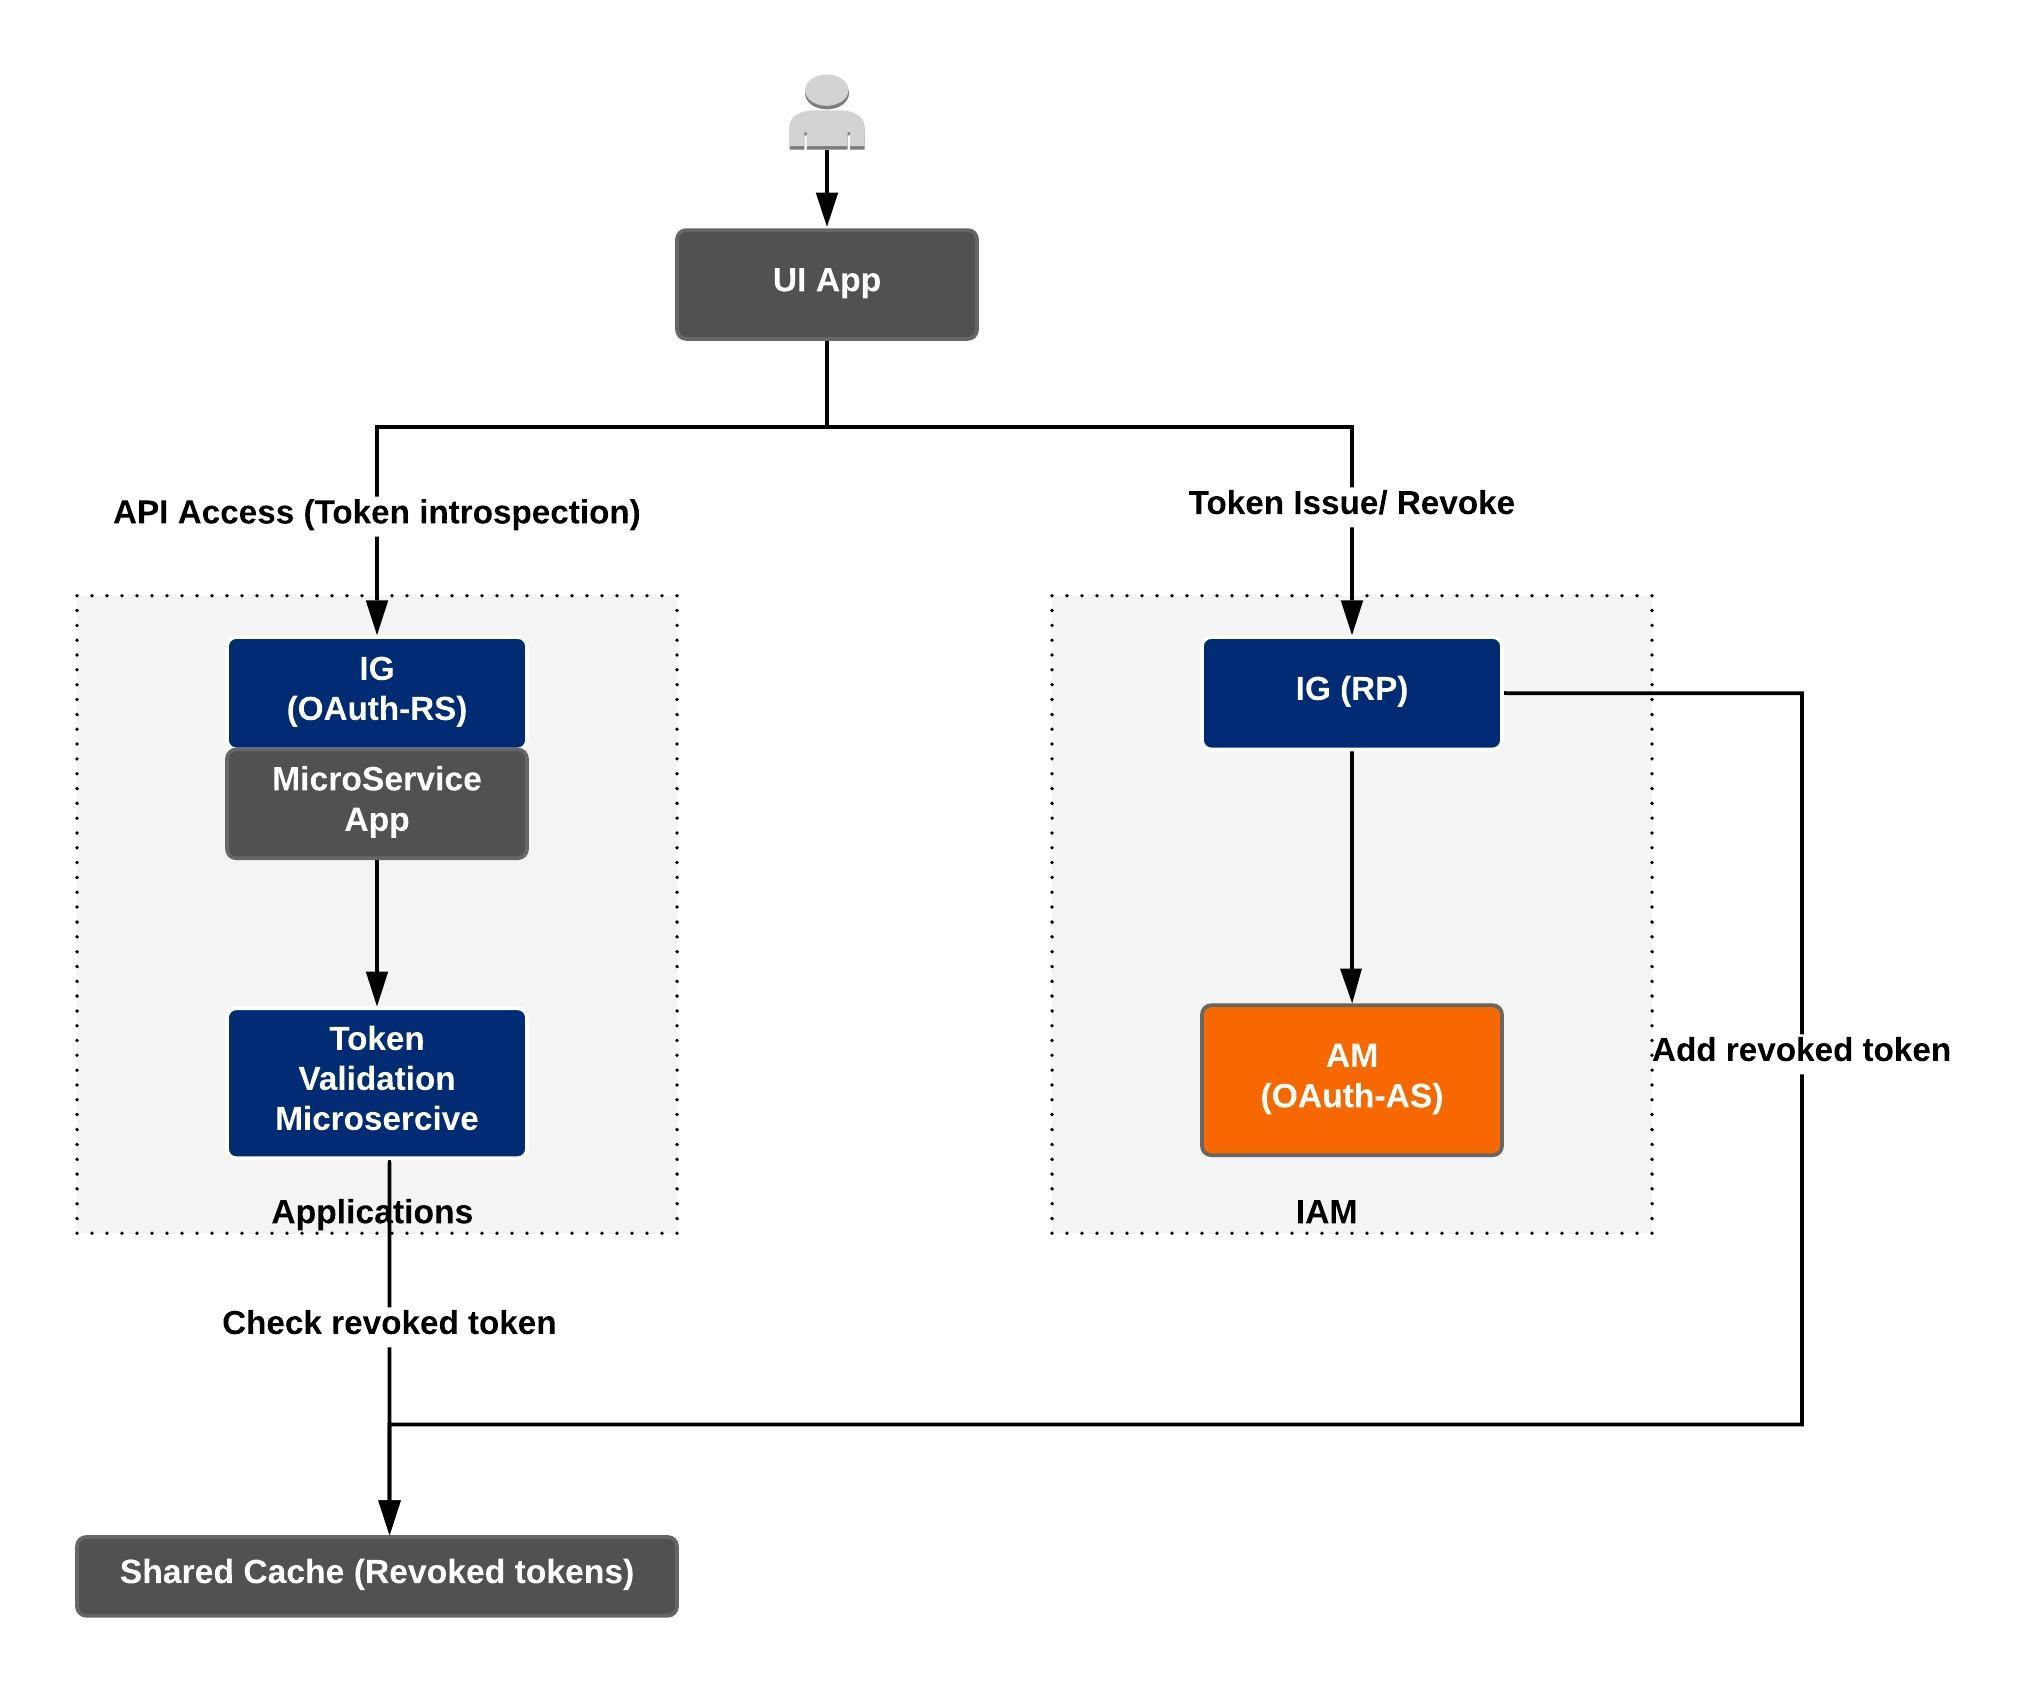
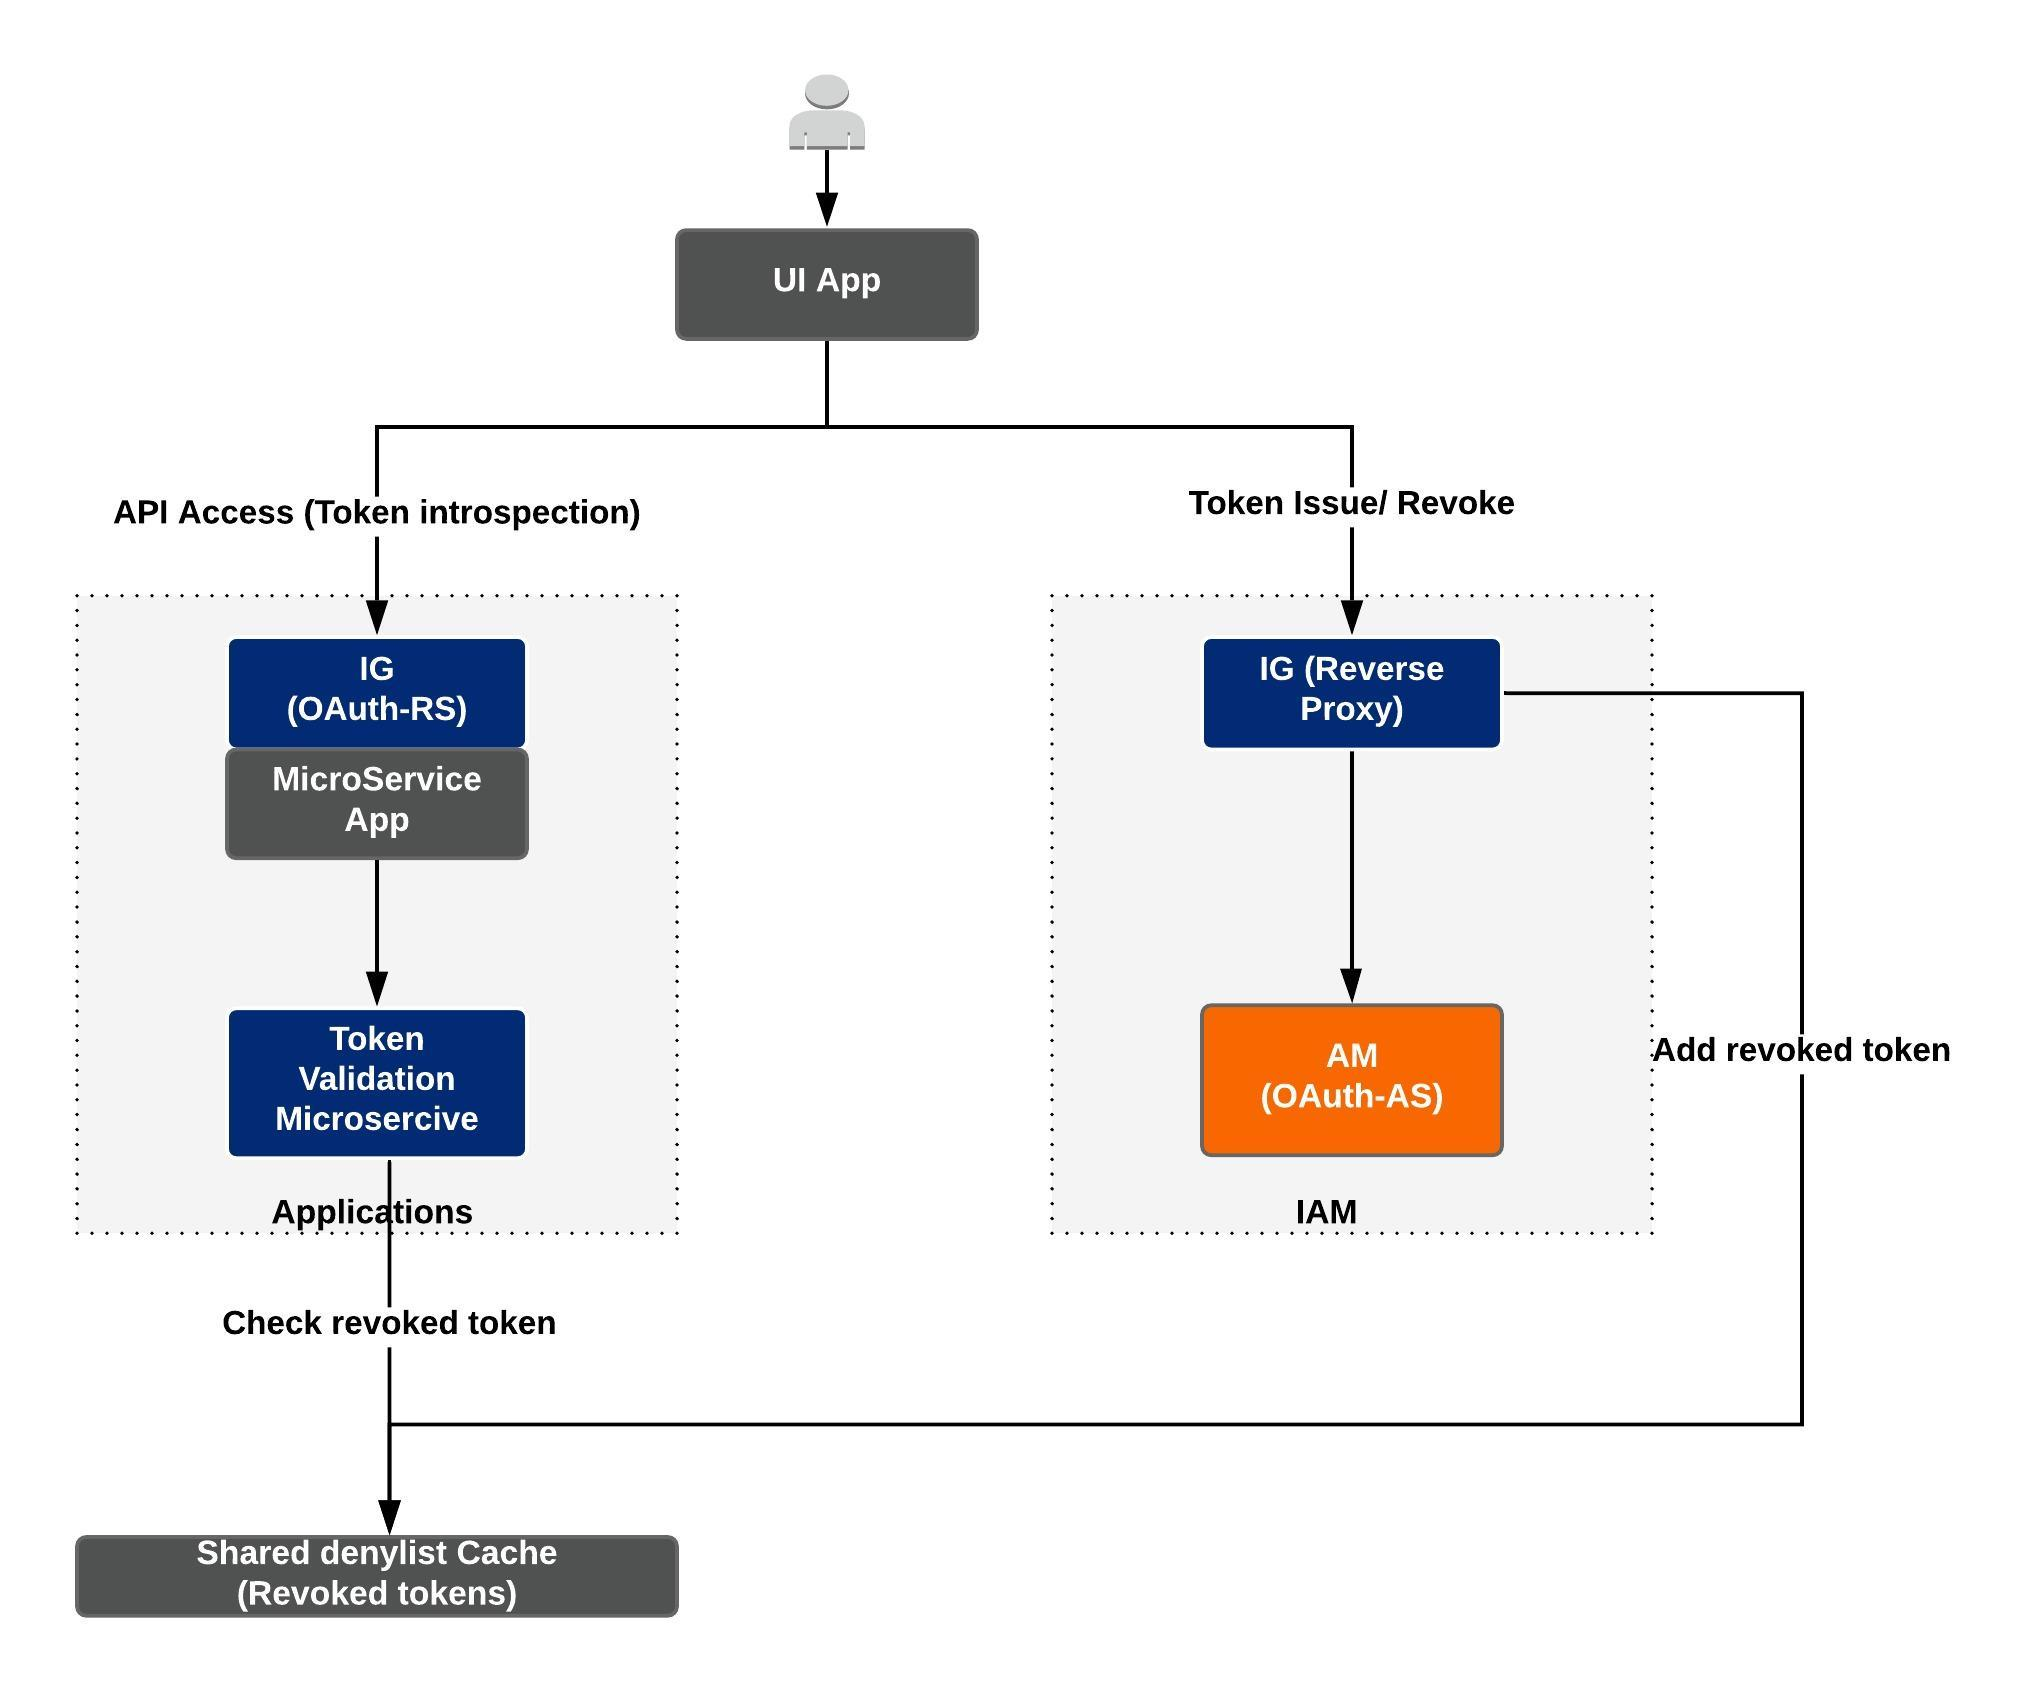
Replaced IG-MicroGateway with IG standalone

Changed region(s): [[0.0622, 0.8918, 0.3108, 0.9533], [0.6216, 0.369, 0.7148, 0.4305]]

diff --git a/README.md b/README.md
@@ -18,7 +18,7 @@ action taken by you or others related to the sample code.
 
 Pre-requisites :
 ================
-* Versions used for this project: IG 7.0.1, AM 7.0.0, IG-Microgateway 1.0.2, MicroserviceTokenValidation-1.0.2
+* Versions used for this project: IG 7.0.1, AM 7.0.0, MicroserviceTokenValidation-1.0.2
 
 1. Redis has been installed for shared caching service. This cache needs to be reachable from AM and MicroserviceTokenValidation
 2. AM has been installed and configured. 
@@ -31,18 +31,18 @@ AM Configuration:
 4. Add microservice-A scope to this client
 5. Enable appropriate grant types such as ROPC, refresh token etc 
 
-IG Configuration:
+IG (Acting as AM Reverse Proxy) Configuration:
 =====================
 1. Install IG
 2. Leverage configs under /ig-am for this deployment, update these configs as needed. 
 3. Configure ttl in ig-am/config/routes/02-am-oauth-revoke.json route. This value defines token expiry in cache. Its recommended to configure this value same as Refresh Token Lifetime in AM's OAuth2 provider.    
 4. Start server: ig/bin/start.sh ~/forgerock/ig-am/
 
-IG-Microgateway Configuration:
+IG (Acting as MicroGateway) Configuration:
 =====================
-1. Install IG-Microgateway
-2. Leverage configs under /micro-gateway for this deployment, update these configs as needed.
-3. Start server: mig1/bin/start.sh ~/forgerock/micro-gateway/
+1. Install IG
+2. Leverage configs under /ig-mg for this deployment, update these configs as needed.
+3. Start server: ig/bin/start.sh ~/forgerock/ig-mg/
 4. Deploy IG sample application as test backend application
 5. For more details, refer https://backstage.forgerock.com/docs/mg/1/user-guide/#chap-using 
 
